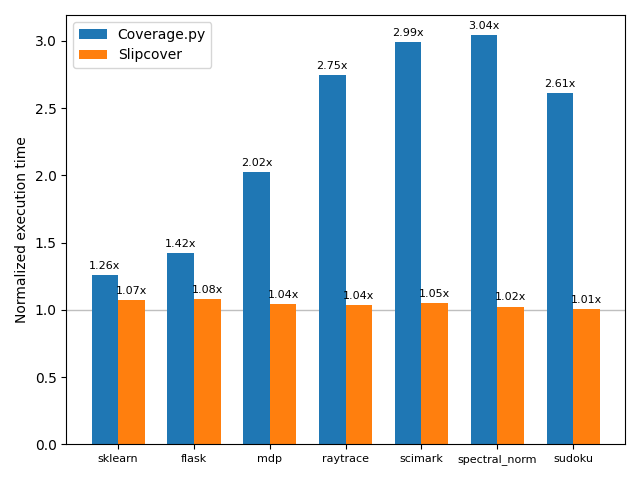
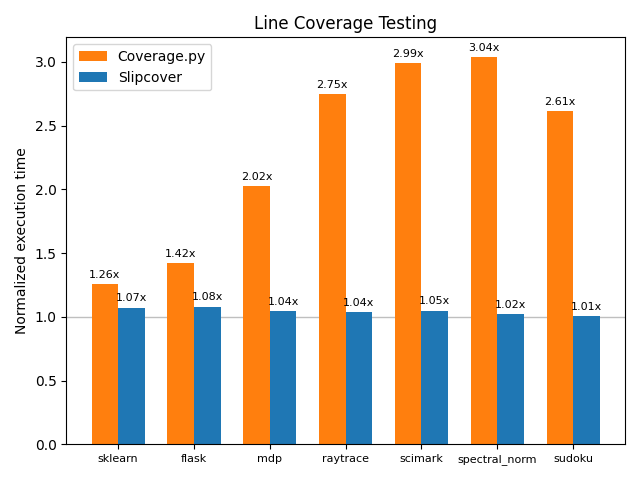
- added title;
- flipped colors (as we wanted them for the slides a while ago);

diff --git a/benchmarks/run_benchmarks.py b/benchmarks/run_benchmarks.py
@@ -18,11 +18,12 @@ ASTROPY = Path.home() / "tmp" / "astropy"
 git_head = subprocess.run("git rev-parse --short HEAD", shell=True, check=True,
                           capture_output=True, text=True).stdout.strip()
 
-Case = namedtuple('Case', ['name', 'label', 'command'])
+Case = namedtuple('Case', ['name', 'label', 'command', 'color'])
 
-cases = [Case('base', "(no coverage)", sys.executable + " {bench_command}"),
-         Case('coveragepy', "Coverage.py", sys.executable + " -m coverage run {coveragepy_opts} {bench_command}"),
-         Case('slipcover', "Slipcover", sys.executable + " -m slipcover {slipcover_opts} {bench_command}")
+cases = [Case('base', "(no coverage)", sys.executable + " {bench_command}", None),
+         Case('coveragepy', "Coverage.py", sys.executable + " -m coverage run {coveragepy_opts} {bench_command}",
+              'tab:orange'),
+         Case('slipcover', "Slipcover", sys.executable + " -m slipcover {slipcover_opts} {bench_command}", 'tab:blue')
 ]
 base = cases[0]
 
@@ -247,12 +248,13 @@ def plot_results():
 
         showit = not hide_slipcover or (case.name != 'slipcover')
 
-        rects = ax.bar(x + bar_x, r, width/n_bars, label=case.label, zorder=2, alpha=(None if showit else 0))
+        rects = ax.bar(x + bar_x, r, width/n_bars, label=case.label, zorder=2, alpha=(None if showit else 0),
+                       color=case.color)
         if not showit: continue
 
         ax.bar_label(rects, padding=3, labels=[f'{v:.2f}x' for v in r], fontsize=8)
 
-#    ax.set_title('')
+    ax.set_title('Line Coverage Testing')
     ax.set_ylabel('Normalized execution time')
     ax.set_xticks(x, labels=[b.name for b in benchmarks], fontsize=8)
     ax.axhline(y=1, color='grey', linewidth=1, alpha=.5, zorder=1)
